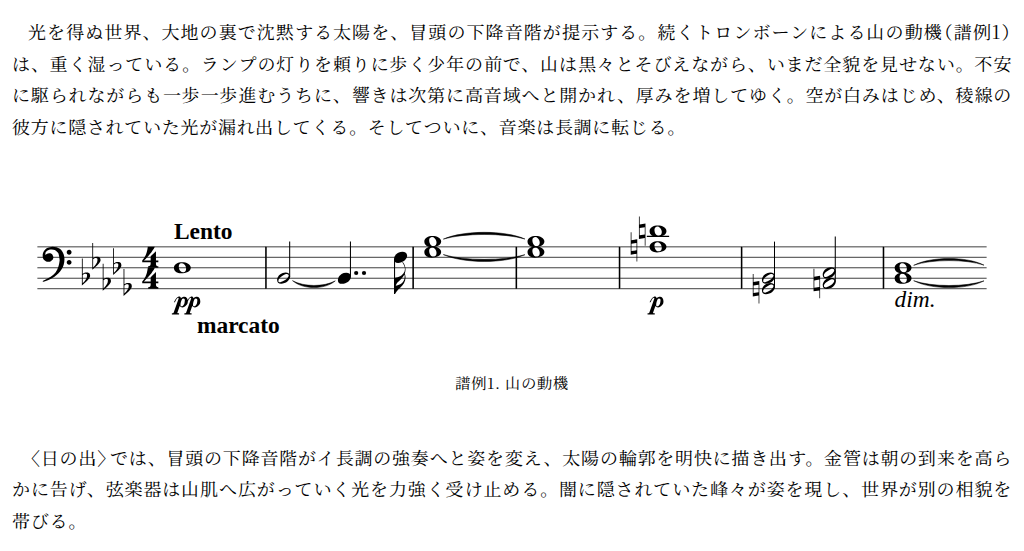
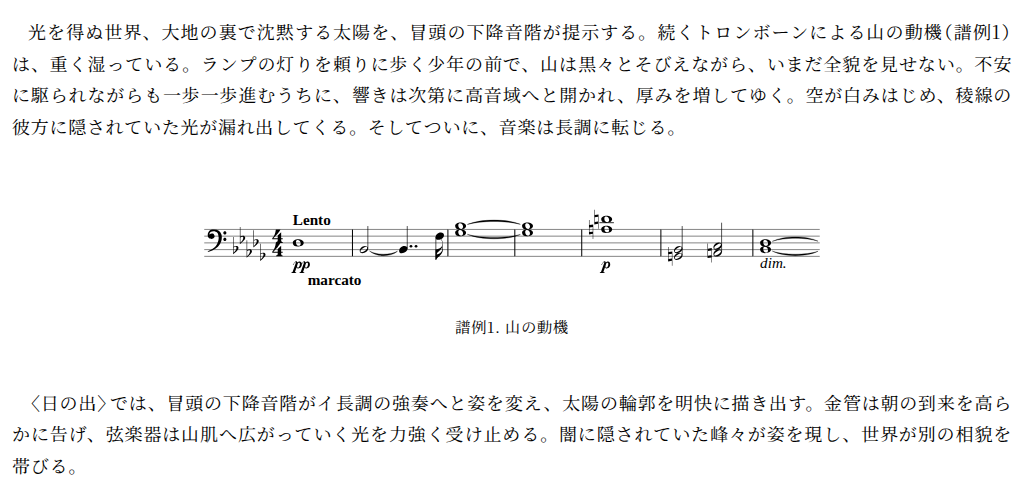
Scale score staves relative to article typography

diff --git a/src/lib/posts/regular-17/20260724-r-strauss-alpine-symphony/post.svelte b/src/lib/posts/regular-17/20260724-r-strauss-alpine-symphony/post.svelte
@@ -12,12 +12,16 @@
   import photo4 from './photo-4.webp';
   import scoreExample1 from './score-example-1.svg';
   import scoreExample1Mobile from './score-example-1.mobile.svg';
+  import scoreExample1Layout from './score-example-1.layout.json';
   import scoreExample2 from './score-example-2.svg';
   import scoreExample2Mobile from './score-example-2.mobile.svg';
+  import scoreExample2Layout from './score-example-2.layout.json';
   import scoreExample3 from './score-example-3.svg';
   import scoreExample3Mobile from './score-example-3.mobile.svg';
+  import scoreExample3Layout from './score-example-3.layout.json';
   import scoreExample4 from './score-example-4.svg';
   import scoreExample4Mobile from './score-example-4.mobile.svg';
+  import scoreExample4Layout from './score-example-4.layout.json';
 
   export const metadata: Metadata = {
     published: true,
@@ -47,7 +51,12 @@
   光を得ぬ世界、大地の裏で沈黙する太陽を、冒頭の下降音階が提示する。続くトロンボーンによる山の動機（譜例1）は、重く湿っている。ランプの灯りを頼りに歩く少年の前で、山は黒々とそびえながら、いまだ全貌を見せない。不安に駆られながらも一歩一歩進むうちに、響きは次第に高音域へと開かれ、厚みを増してゆく。空が白みはじめ、稜線の彼方に隠されていた光が漏れ出してくる。そしてついに、音楽は長調に転じる。
 </p>
 
-<Score src={scoreExample1} mobileSrc={scoreExample1Mobile} caption="譜例1. 山の動機" />
+<Score
+  src={scoreExample1}
+  mobileSrc={scoreExample1Mobile}
+  layout={scoreExample1Layout}
+  caption="譜例1. 山の動機"
+/>
 
 <p>
   〈日の出〉では、冒頭の下降音階がイ長調の強奏へと姿を変え、太陽の輪郭を明快に描き出す。金管は朝の到来を高らかに告げ、弦楽器は山肌へ広がっていく光を力強く受け止める。闇に隠されていた峰々が姿を現し、世界が別の相貌を帯びる。
@@ -59,7 +68,12 @@
   〈登り道〉に入ると、変ホ長調の登山の動機（譜例2）によって、音楽は力強く前進し始める。弦楽器と木管の旋律は、斜面を力強く踏みしめるようであり、金管は狩りを思わせる響きで若々しい勢いを与える。行く手には山腹の岩壁が厳然と聳えているが、覇気に満ちた歩みは止まることを知らない。
 </p>
 
-<Score src={scoreExample2} mobileSrc={scoreExample2Mobile} caption="譜例2. 登山の動機" />
+<Score
+  src={scoreExample2}
+  mobileSrc={scoreExample2Mobile}
+  layout={scoreExample2Layout}
+  caption="譜例2. 登山の動機"
+/>
 
 <hr />
 
@@ -115,6 +129,7 @@
 <Score
   src={scoreExample3}
   mobileSrc={scoreExample3Mobile}
+  layout={scoreExample3Layout}
   caption="譜例3. 〈頂上にて〉より太陽の動機"
 />
 
@@ -140,7 +155,12 @@
   本作は勝利の大団円では終わらない。〈霧が立ちのぼる〉では、音楽は下山へと向かう後半部に入る。ヘッケルホン（※本演奏会ではバスオーボエ）による変ロ短調の旋律が、視界が徐々に閉ざされていく様を描写する。続く〈太陽がしだいに翳る〉と相まって、音楽は次第に不穏な陰りを帯びていく。〈エレジー〉では、弦楽器が憂いに満ちた旋律（譜例4）を歌い、山頂の歓喜はすでに過去のものとなる。和声は明確な解決を避けるように揺れ、少年は不安に包まれていく。
 </p>
 
-<Score src={scoreExample4} mobileSrc={scoreExample4Mobile} caption="譜例4. エレジー" />
+<Score
+  src={scoreExample4}
+  mobileSrc={scoreExample4Mobile}
+  layout={scoreExample4Layout}
+  caption="譜例4. エレジー"
+/>
 
 <p>
   〈嵐の前の静けさ〉では、オーボエの八分音符が、ぽつんと落ちる雨粒を思わせる。危険を察知したかのような鳥の囀りが挿入されると、やがてウィンドマシーンが風の強まりを伝える。弦のピッツィカートは次第に雨足を強め、激しい雷雨へと変わっていく。そして〈雷雨と嵐、下山〉が始まる。全奏による嵐の描写は凄まじい。オルガンが神の裁きかのごとく鳴り響く中、弦は半音階を激しく駆け下り、金管は雷のように割って入り、打楽器は大地を揺るがせる。少年が必死に下山する様は、オーボエによる登山の動機の反行形に重ねられる。ウィンドマシーンやサンダーマシーンまで用いた大がかりな音響は、自然の暴力を管弦楽にそのまま投影した。

diff --git a/src/lib/component/post/Score.svelte b/src/lib/component/post/Score.svelte
@@ -6,13 +6,17 @@
     mobileSrc?: string;
     /** 原稿のキャプション。画像の代替テキストにも使用する。 */
     caption: string;
+    /** SVG から自動計測した、五線全高に対する譜面幅の比率 */
+    layout: { desktopWidthInStaffHeights: number; mobileWidthInStaffHeights: number };
   }
 
-  let { src, mobileSrc, caption }: Props = $props();
+  let { src, mobileSrc, caption, layout }: Props = $props();
 </script>
 
 <!-- @component 譜例を表示する。画面幅に合わせて譜面を表示し、リンクから原寸で開ける。 -->
-<figure>
+<figure
+  style={`--desktop-score-width: ${layout.desktopWidthInStaffHeights * 1.5}em; --mobile-score-width: ${layout.mobileWidthInStaffHeights * 1.125}em;`}
+>
   <!-- SVG URLs are emitted by Vite and are not SvelteKit route paths. -->
   <!-- eslint-disable-next-line svelte/no-navigation-without-resolve -->
   <a href={src} target="_blank" rel="noopener" aria-label={`${caption}を拡大表示`}>
@@ -32,8 +36,17 @@
   }
   a {
     display: block;
+    box-sizing: border-box;
+    width: 100%;
+    max-width: calc(var(--desktop-score-width) + 1rem);
+    margin-inline: auto;
     background: white;
     padding: 0.5rem;
+  }
+  @media (max-width: 600px) {
+    a {
+      max-width: calc(var(--mobile-score-width) + 1rem);
+    }
   }
   img {
     display: block;

diff --git a/docs/pr-69-screenshots/README.md b/docs/pr-69-screenshots/README.md
@@ -6,7 +6,8 @@
 - 元画像: `a566bc80c3079c2198efd81b7786d9d6b8d88e7f`（PR の基点）
 - 新画像: この比較画像を追加したコミットの実装
 - Chromium、画面幅 1280px / 375px、deviceScaleFactor 1、同じ記事 URL・同じ本文・同じフォント
-- モバイルでは小節ごとに改行した SVG を表示し、デスクトップでは一段の SVG を画面幅に収めています。
+- モバイルでは小節ごとに改行した SVG を表示し、デスクトップでは一段の SVG を表示します。
+- 五線全体の高さを本文の `1.5em`（デスクトップ）/ `1.125em`（モバイル）を上限に揃えています。
 - 320px / 375px / 600px / 601px / 768px / 1280px の各幅で、4譜例とページに横はみ出しがないことを確認しました。
 
 ## デスクトップ（1280px）
